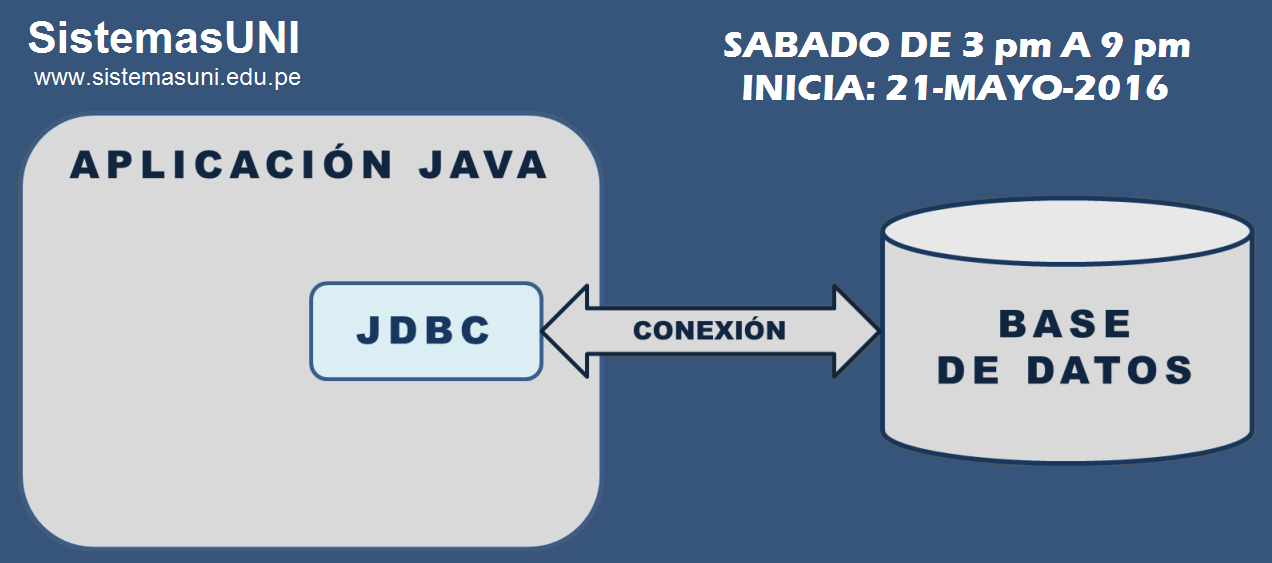
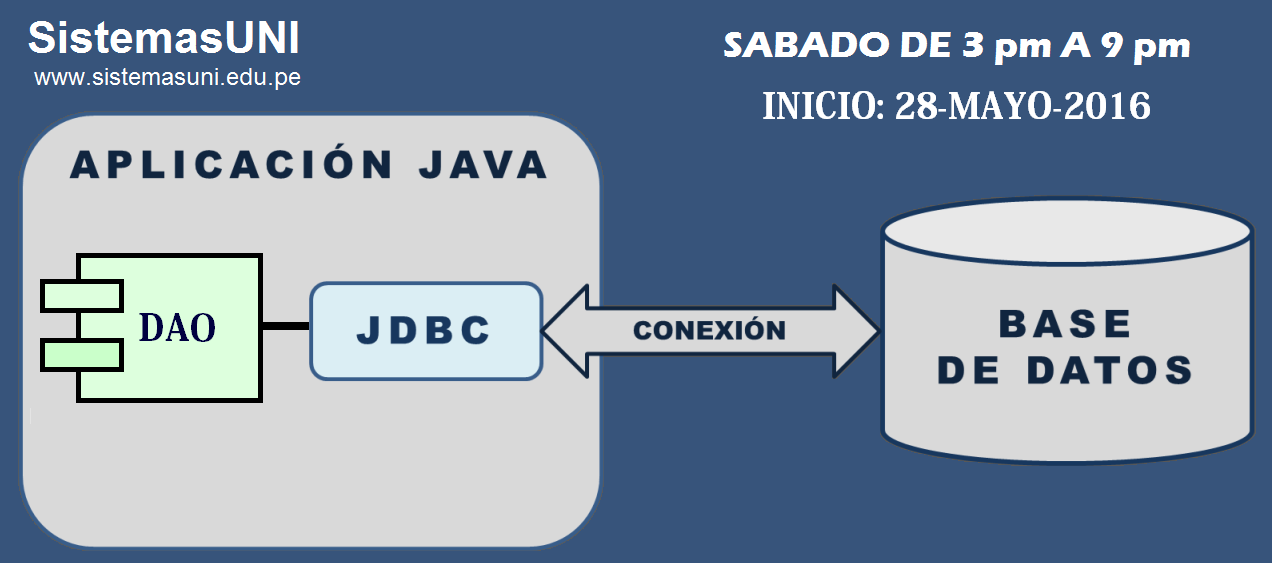
Repositorio.

Changed region(s): [[0.0307, 0.4227, 0.2453, 0.7247], [0.5825, 0.1208, 0.9198, 0.2114]]

diff --git a/README.md b/README.md
@@ -4,7 +4,7 @@
 
 - Lugar: SistemasUNI
 - Horario: SABADOS de 3 pm a 9 pm
-- Inicio: 21-MAYO-2016
+- Inicio: 28-MAYO-2016
 - Dirección: https://goo.gl/maps/98vwAt9NZMU2
 - Contenido: http://www.sistemasuni.edu.pe/dcursos/javaescritorio.html
 - Página: http://gcoronelc.github.io/SISTUNI_JAVA_JDBC_004/
@@ -34,7 +34,7 @@
 
 # CLASE 01 
 
-- Fecha: 06-MARZO-2016
+- Fecha: 28-MAYO-2016
 - Revisado Git y GitHub
 - Instalar Oracle
 - Crear esquema Eureka
